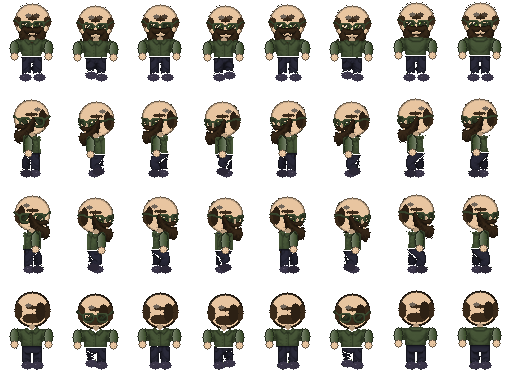
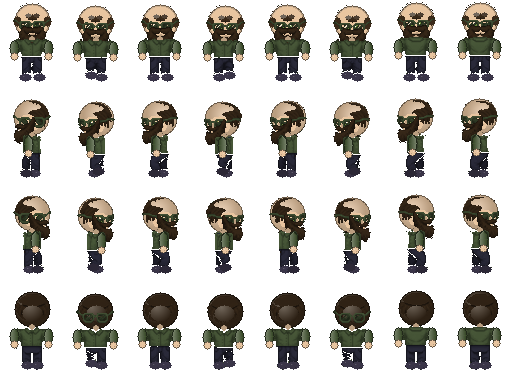
fix: only skip AI balding for down dir, keep flipped AI PNGs for right/up

diff --git a/shared/char-draw.ts b/shared/char-draw.ts
@@ -218,7 +218,7 @@ export function drawChar(s: DrawSurface, ox: number, oy: number, pal: CharPalett
   ): boolean => {
     const provider = s.componentProvider?.[component];
     if (!provider || !provider[style]) return false;
-    if (component === "hair" && style === "balding") return false;
+    if (component === "hair" && style === "balding" && dirName === "down") return false;
     if (component === "beard" && style === "stubble" && dirName !== "down") return false;
     const frames = provider[style];
     const dirIndex = dirName === "down" ? 0 : dirName === "right" ? 1 : 2;
